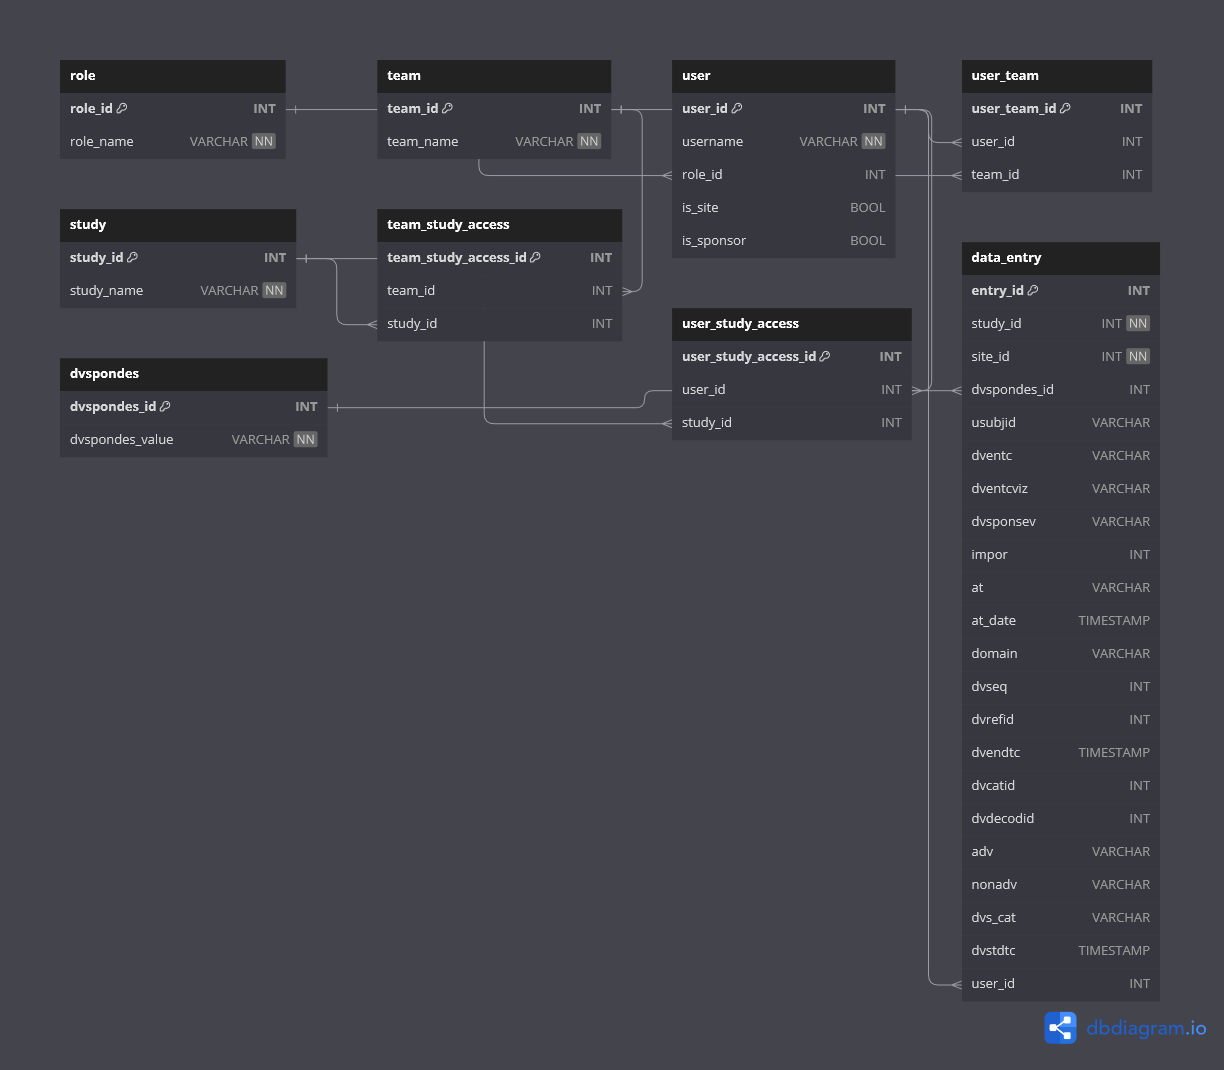
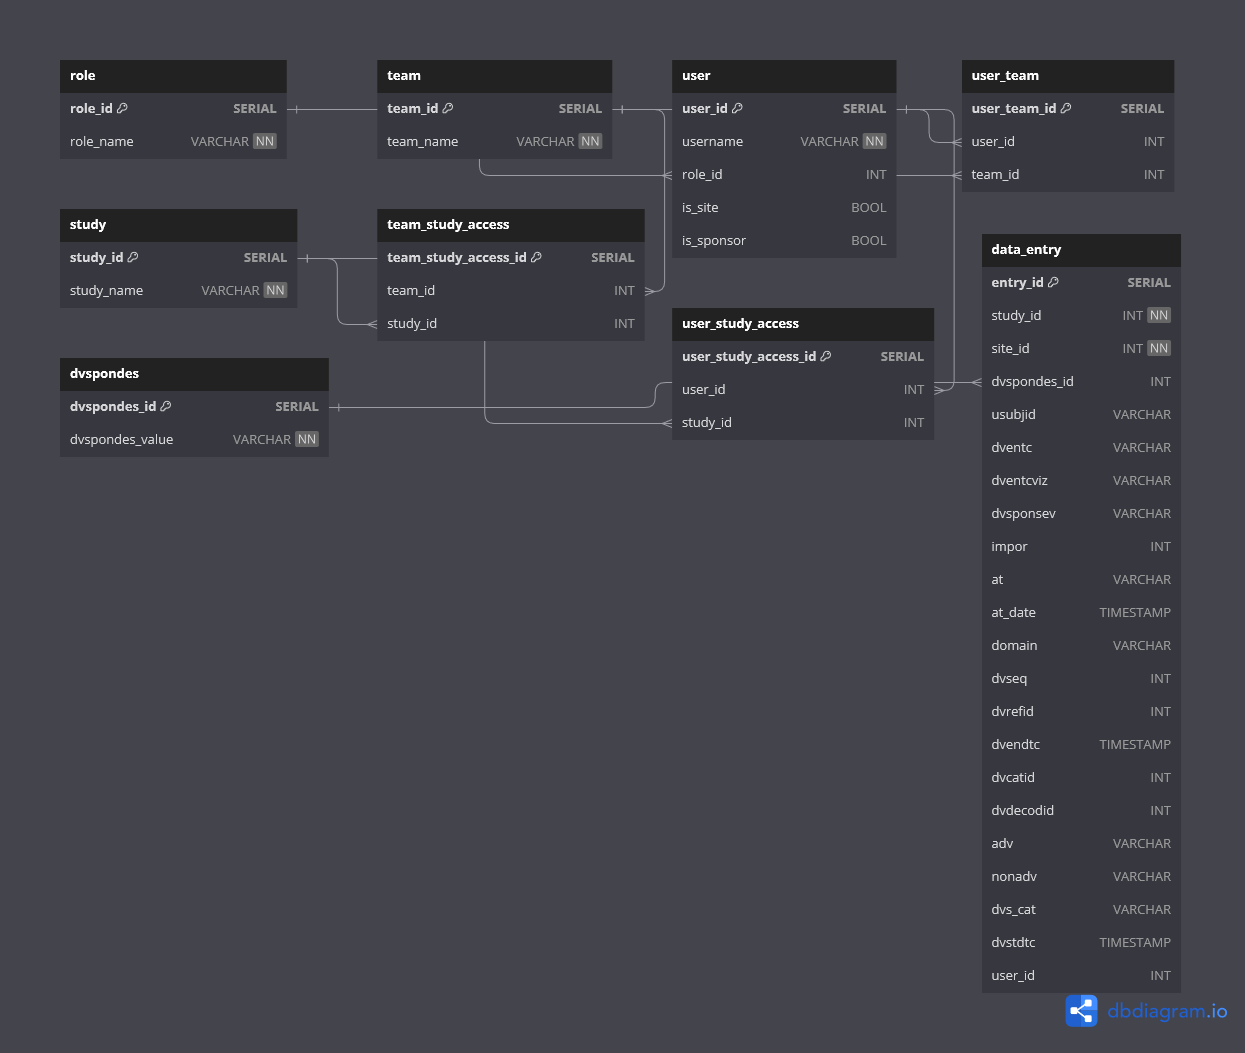
implement data upload functionality

diff --git a/src/main/java/org/digitalecmt/qualityassurance/service/UploadService.java b/src/main/java/org/digitalecmt/qualityassurance/service/UploadService.java
@@ -1,0 +1,190 @@
+/**
+ * The MIT License (MIT)
+ * <p>
+ * Copyright (c) 2021 the original author or authors.
+ * <p>
+ * Permission is hereby granted, free of charge, to any person obtaining a copy
+ * of this software and associated documentation files (the "Software"), to deal
+ * in the Software without restriction, including without limitation the rights
+ * to use, copy, modify, merge, publish, distribute, sublicense, and/or sell
+ * copies of the Software, and to permit persons to whom the Software is
+ * furnished to do so, subject to the following conditions:
+ * <p>
+ * The above copyright notice and this permission notice shall be included in
+ * all copies or substantial portions of the Software.
+ * <p>
+ * THE SOFTWARE IS PROVIDED "AS IS", WITHOUT WARRANTY OF ANY KIND, EXPRESS OR
+ * IMPLIED, INCLUDING BUT NOT LIMITED TO THE WARRANTIES OF MERCHANTABILITY,
+ * FITNESS FOR A PARTICULAR PURPOSE AND NONINFRINGEMENT. IN NO EVENT SHALL THE
+ * AUTHORS OR COPYRIGHT HOLDERS BE LIABLE FOR ANY CLAIM, DAMAGES OR OTHER
+ * LIABILITY, WHETHER IN AN ACTION OF CONTRACT, TORT OR OTHERWISE, ARISING FROM,
+ * OUT OF OR IN CONNECTION WITH THE SOFTWARE OR THE USE OR OTHER DEALINGS IN THE
+ * SOFTWARE.
+ */
+
+package org.digitalecmt.qualityassurance.service;
+
+import java.io.IOException;
+import java.io.InputStream;
+import java.nio.charset.StandardCharsets;
+import java.text.ParseException;
+import java.text.SimpleDateFormat;
+import java.util.ArrayList;
+import java.util.List;
+import java.util.Map;
+
+import org.springframework.beans.factory.annotation.Autowired;
+import org.springframework.http.HttpStatus;
+import org.springframework.http.ResponseEntity;
+import org.springframework.stereotype.Service;
+import org.springframework.web.multipart.MultipartFile;
+import org.apache.commons.csv.CSVFormat;
+import org.apache.commons.csv.CSVParser;
+import org.apache.commons.csv.CSVRecord;
+import org.apache.poi.ss.usermodel.Row;
+import org.apache.poi.ss.usermodel.Sheet;
+import org.apache.poi.ss.usermodel.Workbook;
+import org.apache.poi.ss.usermodel.WorkbookFactory;
+import org.digitalecmt.qualityassurance.model.persistence.DataEntry;
+import org.digitalecmt.qualityassurance.model.persistence.Dvspondes;
+import org.digitalecmt.qualityassurance.model.persistence.Study;
+import org.digitalecmt.qualityassurance.repository.DataEntryRepository;
+import org.digitalecmt.qualityassurance.repository.DvspondesRepository;
+import org.digitalecmt.qualityassurance.repository.StudyRepository;
+import org.apache.poi.ss.usermodel.*;
+
+import java.util.Date;
+import java.util.HashMap;
+import java.util.Iterator;
+
+@Service
+public class UploadService {
+
+    @Autowired
+    private DataEntryRepository dataEntryRepository;
+    
+    @Autowired
+    private StudyRepository studyRepository;
+    
+    @Autowired
+    private DvspondesRepository dvspondesRepository;
+    
+    
+    public String getFileExtension(String filename) {
+        int dotIndex = filename.lastIndexOf('.');
+        if (dotIndex == -1) {
+            return "";
+        }
+        return filename.substring(dotIndex + 1);
+    }
+    
+    public ResponseEntity<String> checkFileFormat(MultipartFile file) throws IOException {
+    String fileExtension = getFileExtension(file.getOriginalFilename());
+    
+	    try {
+	        if (fileExtension.equalsIgnoreCase("csv")) {
+	        	processDataEntryCSV(file);
+	            return ResponseEntity.ok("CSV file uploaded.");
+	        } else if (fileExtension.equalsIgnoreCase("xlsx")) {
+	        	processDataEntryExcel(file);
+	            return ResponseEntity.ok("Excel file uploaded.");
+	        } else {
+	            return ResponseEntity.badRequest().body("Unsupported file format. Please upload a CSV or Excel file.");
+	        }
+	    } catch (IOException e) {
+	        e.printStackTrace();
+	        return ResponseEntity.status(HttpStatus.INTERNAL_SERVER_ERROR).body("Failed to process the file.");
+	    }
+    }
+    
+    public void parseAndAddData(String siteId, String studyId, String dvsponsdesValue, String dataEntryStudyName, List<DataEntry> dataEntrys) {
+
+        int siteIdInt = Integer.parseInt(siteId);
+        int studyIdInt = Integer.parseInt(studyId);
+
+        // Save it to the "study" table
+        Study study = new Study();
+        study.setStudyId(studyIdInt);
+        study.setStudyName(dataEntryStudyName);
+        studyRepository.save(study);
+
+        // Save it to the "dvspondes" table
+        Dvspondes dvspondes = new Dvspondes();
+        dvspondes.setDvspondesValue(dvsponsdesValue);
+        dvspondesRepository.save(dvspondes);
+
+        // Create a new DataEntry instance and set its properties
+        DataEntry dataEntry = new DataEntry();
+        dataEntry.setSiteId(siteIdInt);
+        dataEntry.setStudyId(studyIdInt);
+        dataEntry.setDvspondesId(dvspondes.getDvspondesId());
+        
+        // Add the DataEntry instance to the list
+        dataEntrys.add(dataEntry);
+	
+    }
+    
+    public void processDataEntryCSV(MultipartFile file) throws IOException {
+    	List<DataEntry> dataEntrys = new ArrayList<>();
+        
+        // Dataset
+        String dataEntryStudyName = file.getOriginalFilename(); // Get the file name
+        Study study = new Study();
+        study.setStudyName(dataEntryStudyName);
+        
+        // Read the CSV file and parse its contents
+        CSVParser csvParser = CSVParser.parse(file.getInputStream(), StandardCharsets.UTF_8, CSVFormat.DEFAULT.withHeader());
+        for (CSVRecord record : csvParser) {
+        
+            // Extract the data from each row of the CSV file
+        	String siteId = record.get("SITEID");
+        	String studyId = record.get("STUDYID");
+        	String dvsponsdesValue = record.get("DVSPONSDES");
+        	
+
+           parseAndAddData(siteId, studyId, dvsponsdesValue, dataEntryStudyName, dataEntrys);
+                
+
+        }
+
+        // Save the dataEntrys to the "dataEntrys" table
+        dataEntryRepository.saveAll(dataEntrys);
+        
+    }
+
+    public void processDataEntryExcel(MultipartFile file) throws IOException {
+        List<DataEntry> dataEntrys = new ArrayList<>();
+
+        String dataEntryStudyName = file.getOriginalFilename(); // Get the file name
+
+        Workbook workbook;
+        try (InputStream inputStream = file.getInputStream()) {
+            workbook = WorkbookFactory.create(inputStream);
+        }
+       
+        Sheet sheet = workbook.getSheetAt(0);
+        boolean isFirstRow = true; // Flag to check if it's the first row
+        DataFormatter dataFormatter = new DataFormatter();
+
+        for (Row row : sheet) {
+        	
+        	// Skip the first row
+        	if (isFirstRow) {
+                isFirstRow = false;
+                continue;
+            }
+            
+        	String siteId = dataFormatter.formatCellValue(row.getCell(0));
+        	String studyId = dataFormatter.formatCellValue(row.getCell(1));
+        	String dvsponsdesValue = dataFormatter.formatCellValue(row.getCell(2));
+
+            parseAndAddData(siteId, studyId, dvsponsdesValue, dataEntryStudyName, dataEntrys);
+            
+        }
+        
+        // Save the dataEntrys to the "dataEntrys" table
+        dataEntryRepository.saveAll(dataEntrys);
+        
+    }
+
+}

diff --git a/src/main/java/org/digitalecmt/qualityassurance/controller/entity/DataEntryController.java b/src/main/java/org/digitalecmt/qualityassurance/controller/entity/DataEntryController.java
@@ -27,7 +27,7 @@ package org.digitalecmt.qualityassurance.controller.entity;
 import java.util.List;
 
 import org.digitalecmt.qualityassurance.model.persistence.DataEntry;
-import org.digitalecmt.qualityassurance.service.DataUploadService;
+import org.digitalecmt.qualityassurance.service.DataEntryService;
 import org.springframework.beans.factory.annotation.Autowired;
 import org.springframework.web.bind.annotation.DeleteMapping;
 import org.springframework.web.bind.annotation.GetMapping;
@@ -40,11 +40,11 @@ import org.springframework.web.bind.annotation.RestController;
 
 @RestController
 @RequestMapping("/api/dataUpload")
-public class DataUploadController {
-    private final DataUploadService dataUploadService;
+public class DataEntryController {
+    private final DataEntryService dataUploadService;
 
     @Autowired
-    public DataUploadController(DataUploadService dataUploadService) {
+    public DataEntryController(DataEntryService dataUploadService) {
         this.dataUploadService = dataUploadService;
     }
 

diff --git a/src/main/java/org/digitalecmt/qualityassurance/service/DataEntryService.java b/src/main/java/org/digitalecmt/qualityassurance/service/DataEntryService.java
@@ -28,17 +28,17 @@ package org.digitalecmt.qualityassurance.service;
 import java.util.List;
 
 import org.digitalecmt.qualityassurance.model.persistence.DataEntry;
-import org.digitalecmt.qualityassurance.repository.DataUploadRepository;
+import org.digitalecmt.qualityassurance.repository.DataEntryRepository;
 import org.springframework.beans.factory.annotation.Autowired;
 import org.springframework.stereotype.Service;
 
 
 @Service
-public class DataUploadService {
-    private final DataUploadRepository dataUploadRepository;
+public class DataEntryService {
+    private final DataEntryRepository dataUploadRepository;
 
     @Autowired
-    public DataUploadService(DataUploadRepository dataUploadRepository) {
+    public DataEntryService(DataEntryRepository dataUploadRepository) {
         this.dataUploadRepository = dataUploadRepository;
     }
 

diff --git a/src/main/java/org/digitalecmt/qualityassurance/model/persistence/TeamStudyAccess.java b/src/main/java/org/digitalecmt/qualityassurance/model/persistence/TeamStudyAccess.java
@@ -2,6 +2,8 @@ package org.digitalecmt.qualityassurance.model.persistence;
 
 import jakarta.persistence.Column;
 import jakarta.persistence.Entity;
+import jakarta.persistence.GeneratedValue;
+import jakarta.persistence.GenerationType;
 import jakarta.persistence.Id;
 import jakarta.persistence.Table;
 
@@ -9,7 +11,8 @@ import jakarta.persistence.Table;
 @Table(name = "team_study_access")
 public class TeamStudyAccess {
     @Id
-    @Column(name = "team_study_access_id")
+    @GeneratedValue(strategy = GenerationType.IDENTITY)
+    @Column(name = "team_study_access_id", columnDefinition = "serial")
     private int teamStudyAccessId;
 
     @Column(name = "team_id")

diff --git a/src/main/java/org/digitalecmt/qualityassurance/model/persistence/UserStudyAccess.java b/src/main/java/org/digitalecmt/qualityassurance/model/persistence/UserStudyAccess.java
@@ -2,6 +2,8 @@ package org.digitalecmt.qualityassurance.model.persistence;
 
 import jakarta.persistence.Column;
 import jakarta.persistence.Entity;
+import jakarta.persistence.GeneratedValue;
+import jakarta.persistence.GenerationType;
 import jakarta.persistence.Id;
 import jakarta.persistence.Table;
 
@@ -9,7 +11,8 @@ import jakarta.persistence.Table;
 @Table(name = "user_study_access")
 public class UserStudyAccess {
     @Id
-    @Column(name = "user_study_access_id")
+    @GeneratedValue(strategy = GenerationType.IDENTITY)
+    @Column(name = "user_study_access_id", columnDefinition = "serial")
     private int userStudyAccessId;
 
     @Column(name = "user_id")

diff --git a/src/main/java/org/digitalecmt/qualityassurance/model/persistence/Dvspondes.java b/src/main/java/org/digitalecmt/qualityassurance/model/persistence/Dvspondes.java
@@ -2,6 +2,8 @@ package org.digitalecmt.qualityassurance.model.persistence;
 
 import jakarta.persistence.Column;
 import jakarta.persistence.Entity;
+import jakarta.persistence.GeneratedValue;
+import jakarta.persistence.GenerationType;
 import jakarta.persistence.Id;
 import jakarta.persistence.Table;
 
@@ -9,7 +11,8 @@ import jakarta.persistence.Table;
 @Table(name = "dvspondes")
 public class Dvspondes {
     @Id
-    @Column(name = "dvspondes_id")
+    @GeneratedValue(strategy = GenerationType.IDENTITY)
+    @Column(name = "dvspondes_id", columnDefinition = "serial")
     private int dvspondesId;
 
     @Column(name = "dvspondes_value", nullable = false)

diff --git a/src/main/java/org/digitalecmt/qualityassurance/model/persistence/User.java b/src/main/java/org/digitalecmt/qualityassurance/model/persistence/User.java
@@ -2,6 +2,8 @@ package org.digitalecmt.qualityassurance.model.persistence;
 
 import jakarta.persistence.Column;
 import jakarta.persistence.Entity;
+import jakarta.persistence.GeneratedValue;
+import jakarta.persistence.GenerationType;
 import jakarta.persistence.Id;
 import jakarta.persistence.Table;
 
@@ -9,7 +11,8 @@ import jakarta.persistence.Table;
 @Table(name = "user")
 public class User {
     @Id
-    @Column(name = "user_id")
+    @GeneratedValue(strategy = GenerationType.IDENTITY)
+    @Column(name = "user_id", columnDefinition = "serial")
     private int userId;
 
     @Column(name = "username", unique = true, nullable = false)

diff --git a/src/main/java/org/digitalecmt/qualityassurance/model/persistence/UserTeam.java b/src/main/java/org/digitalecmt/qualityassurance/model/persistence/UserTeam.java
@@ -2,6 +2,8 @@ package org.digitalecmt.qualityassurance.model.persistence;
 
 import jakarta.persistence.Column;
 import jakarta.persistence.Entity;
+import jakarta.persistence.GeneratedValue;
+import jakarta.persistence.GenerationType;
 import jakarta.persistence.Id;
 import jakarta.persistence.Table;
 
@@ -9,7 +11,8 @@ import jakarta.persistence.Table;
 @Table(name = "user_team")
 public class UserTeam {
     @Id
-    @Column(name = "user_team_id")
+    @GeneratedValue(strategy = GenerationType.IDENTITY)
+    @Column(name = "user_team_id", columnDefinition = "serial")
     private int userTeamId;
 
     @Column(name = "user_id")

diff --git a/src/main/java/org/digitalecmt/qualityassurance/model/persistence/Role.java b/src/main/java/org/digitalecmt/qualityassurance/model/persistence/Role.java
@@ -2,6 +2,8 @@ package org.digitalecmt.qualityassurance.model.persistence;
 
 import jakarta.persistence.Column;
 import jakarta.persistence.Entity;
+import jakarta.persistence.GeneratedValue;
+import jakarta.persistence.GenerationType;
 import jakarta.persistence.Id;
 import jakarta.persistence.Table;
 
@@ -9,7 +11,8 @@ import jakarta.persistence.Table;
 @Table(name = "role")
 public class Role {
     @Id
-    @Column(name = "role_id")
+    @GeneratedValue(strategy = GenerationType.IDENTITY)
+    @Column(name = "role_id", columnDefinition = "serial")
     private int roleId;
 
     @Column(name = "role_name", nullable = false)

diff --git a/src/main/java/org/digitalecmt/qualityassurance/model/persistence/Team.java b/src/main/java/org/digitalecmt/qualityassurance/model/persistence/Team.java
@@ -2,6 +2,8 @@ package org.digitalecmt.qualityassurance.model.persistence;
 
 import jakarta.persistence.Column;
 import jakarta.persistence.Entity;
+import jakarta.persistence.GeneratedValue;
+import jakarta.persistence.GenerationType;
 import jakarta.persistence.Id;
 import jakarta.persistence.Table;
 
@@ -9,7 +11,8 @@ import jakarta.persistence.Table;
 @Table(name = "team")
 public class Team {
     @Id
-    @Column(name = "team_id")
+    @GeneratedValue(strategy = GenerationType.IDENTITY)
+    @Column(name = "team_id", columnDefinition = "serial")
     private int teamId;
 
     @Column(name = "team_name", nullable = false)

diff --git a/src/main/java/org/digitalecmt/qualityassurance/model/persistence/Study.java b/src/main/java/org/digitalecmt/qualityassurance/model/persistence/Study.java
@@ -2,6 +2,8 @@ package org.digitalecmt.qualityassurance.model.persistence;
 
 import jakarta.persistence.Column;
 import jakarta.persistence.Entity;
+import jakarta.persistence.GeneratedValue;
+import jakarta.persistence.GenerationType;
 import jakarta.persistence.Id;
 import jakarta.persistence.Table;
 

diff --git a/src/main/java/org/digitalecmt/qualityassurance/repository/DataEntryRepository.java b/src/main/java/org/digitalecmt/qualityassurance/repository/DataEntryRepository.java
@@ -29,6 +29,6 @@ import org.springframework.data.jpa.repository.JpaRepository;
 import org.springframework.stereotype.Repository;
 
 @Repository
-public interface DataUploadRepository
+public interface DataEntryRepository
         extends JpaRepository<DataEntry, Integer> {
 }
